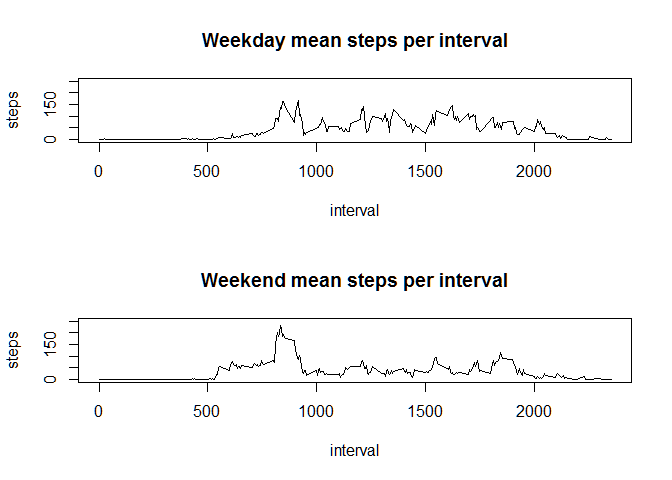
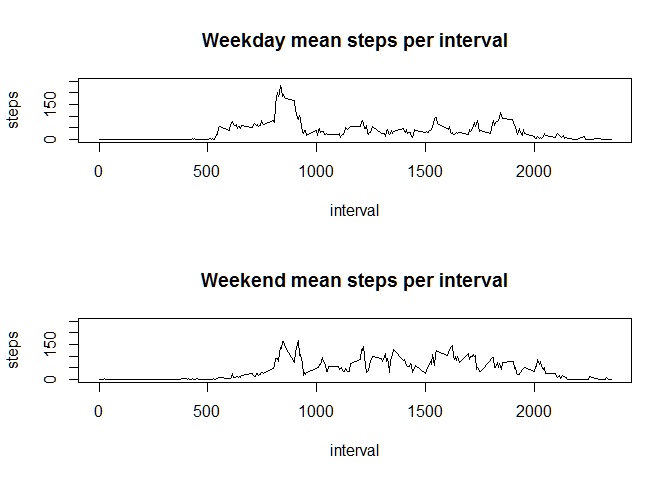
Typo swpped weekdays and weekends

diff --git a/PA1_template.html b/PA1_template.html
@@ -214,7 +214,7 @@ hist(steps.impute.vector,
             weekdays(
                 as.POSIXct(
                     as.character(
-                        activity.impute[, &quot;date&quot;]))), 1, 1) != &quot;S&quot;), 
+                        activity.impute[, &quot;date&quot;]))), 1, 1) == &quot;S&quot;), 
     labels = c(&quot;weekday&quot;, &quot;weekend&quot;))</code></pre>
 <p>Split activity into weekend and weekday interval means.</p>
 <pre class="r"><code>activity.impute.split = split(activity.impute, activity.impute$weekpart)
@@ -234,7 +234,7 @@ plot(mean.steps.per.interval.weekend,
      type=&quot;l&quot;, 
      main=&quot;Weekend mean steps per interval&quot;,
      ylim=c(0, 250))</code></pre>
[2 lines of base64/hex data omitted]
 </div>
 
 

diff --git a/PA1_template.md b/PA1_template.md
@@ -153,7 +153,7 @@ activity.impute$weekpart <- factor(
             weekdays(
                 as.POSIXct(
                     as.character(
-                        activity.impute[, "date"]))), 1, 1) != "S"), 
+                        activity.impute[, "date"]))), 1, 1) == "S"), 
     labels = c("weekday", "weekend"))
 ```
 
